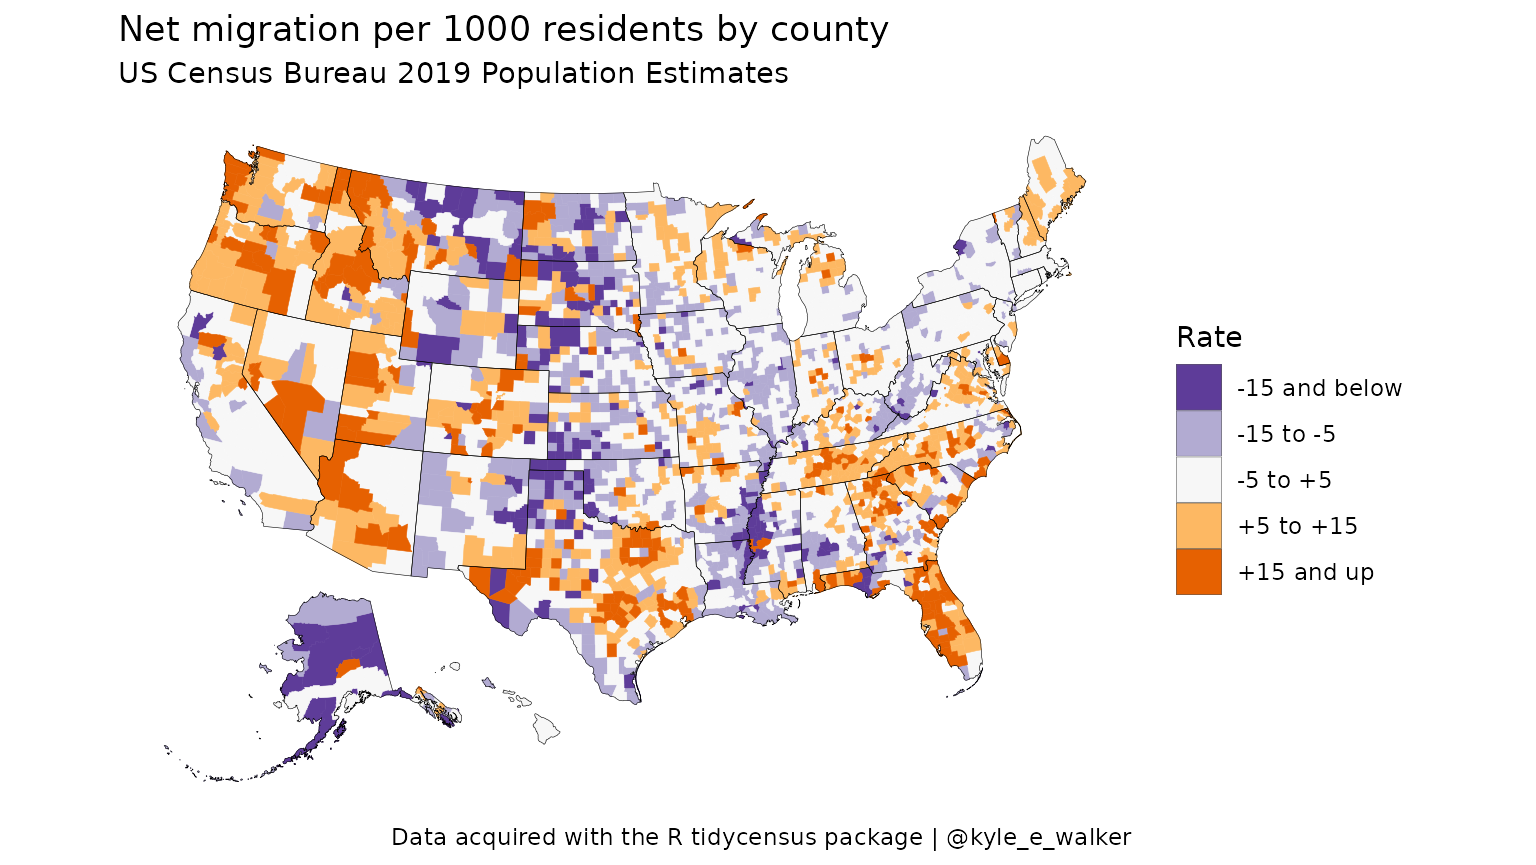
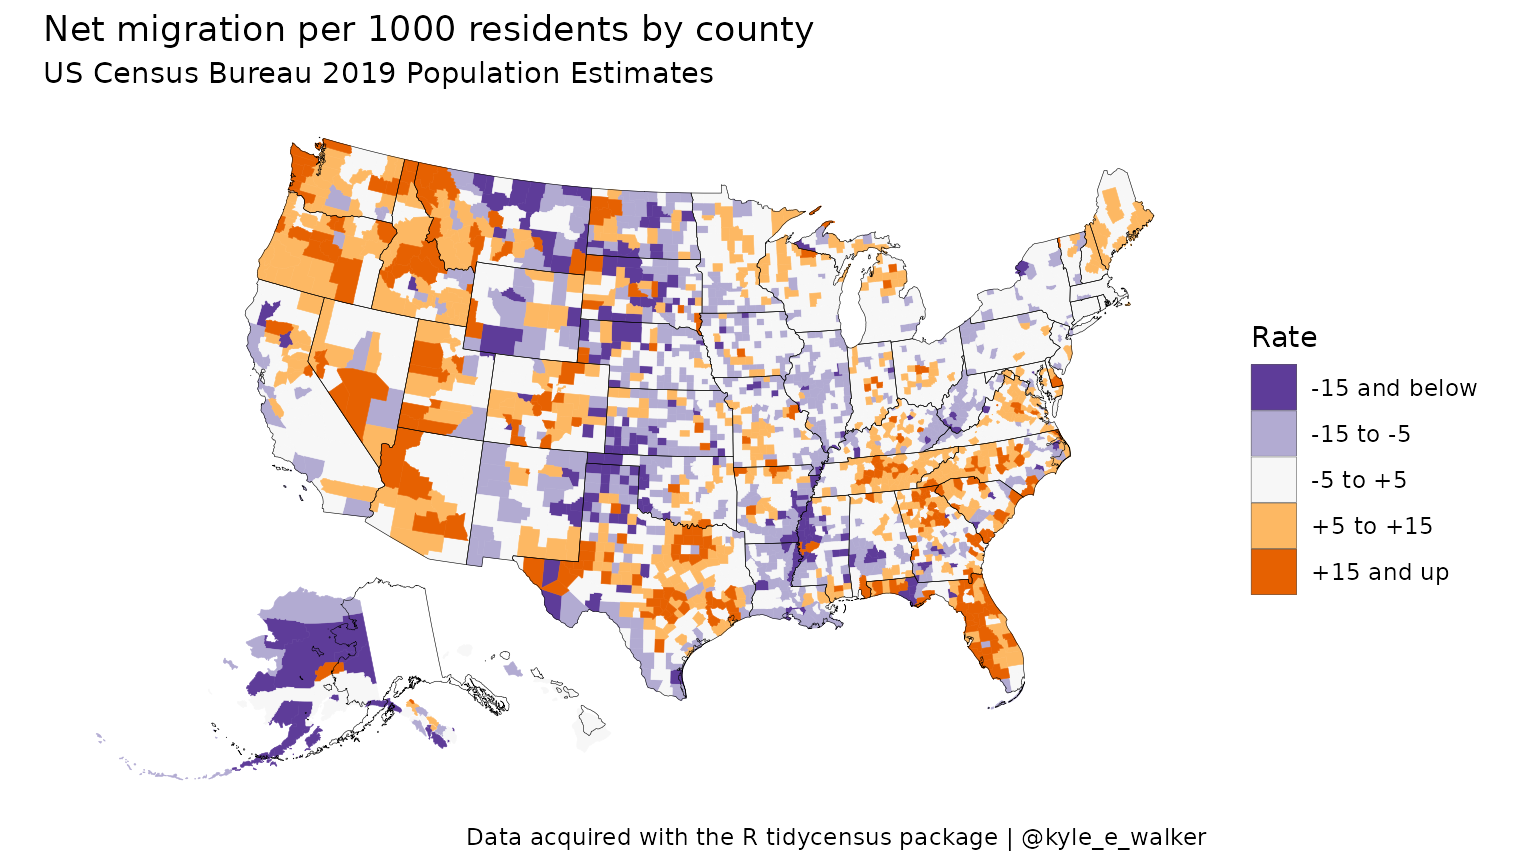
change mapview example to ggplot2

diff --git a/docs/articles/other-datasets.html b/docs/articles/other-datasets.html
@@ -31,7 +31,7 @@
       </button>
       <span class="navbar-brand">
         <a class="navbar-link" href="../index.html">tidycensus</a>
-        <span class="version label label-default" data-toggle="tooltip" data-placement="bottom" title="Released version">0.11.9</span>
+        <span class="version label label-default" data-toggle="tooltip" data-placement="bottom" title="Released version">1.0</span>
       </span>
     </div>
 
@@ -91,7 +91,7 @@
 
       
 
-      </header><script src="other-datasets_files/header-attrs-2.6/header-attrs.js"></script><div class="row">
+      </header><script src="other-datasets_files/header-attrs-2.7/header-attrs.js"></script><div class="row">
   <div class="col-md-9 contents">
     <div class="page-header toc-ignore">
       <h1 data-toc-skip>Other Census Bureau datasets</h1>
@@ -117,6 +117,7 @@
 <div class="sourceCode" id="cb1"><pre class="downlit sourceCode r">
 <code class="sourceCode R"><span class="kw"><a href="https://rdrr.io/r/base/library.html">library</a></span><span class="op">(</span><span class="va"><a href="https://github.com/walkerke/tidycensus">tidycensus</a></span><span class="op">)</span>
 <span class="kw"><a href="https://rdrr.io/r/base/library.html">library</a></span><span class="op">(</span><span class="va"><a href="http://tidyverse.tidyverse.org">tidyverse</a></span><span class="op">)</span>
+<span class="kw"><a href="https://rdrr.io/r/base/library.html">library</a></span><span class="op">(</span><span class="va"><a href="https://github.com/walkerke/tigris">tigris</a></span><span class="op">)</span>
 <span class="fu"><a href="https://rdrr.io/r/base/options.html">options</a></span><span class="op">(</span>tigris_use_cache <span class="op">=</span> <span class="cn">TRUE</span><span class="op">)</span>
 
 <span class="va">us_components</span> <span class="op">&lt;-</span> <span class="fu"><a href="../reference/get_estimates.html">get_estimates</a></span><span class="op">(</span>geography <span class="op">=</span> <span class="st">"state"</span>, product <span class="op">=</span> <span class="st">"components"</span><span class="op">)</span>
@@ -144,32 +145,33 @@
 ##  [7] "RBIRTH"            "RDEATH"            "RDOMESTICMIG"     
 ## [10] "RINTERNATIONALMIG" "RNATURALINC"       "RNETMIG"</code></pre>
 <p>Available geographies include <code>"us"</code>, <code>"state"</code>, <code>"county"</code>, <code>"metropolitan statistical area/micropolitan statistical area"</code>, and <code>"combined statistical area"</code>.</p>
-<p>If desired, users can request a specific component or components by supplying a character vector to the <code>variables</code> parameter, as in other tidycensus functions. <code><a href="../reference/get_estimates.html">get_estimates()</a></code> also supports simple feature geometry integration to facilitate mapping. In the example below, we’ll acquire data on the net migration rate between 2018 and 2019 for all counties in the United States, and request shifted and re-scaled feature geometry for Alaska and Hawaii to facilitate national mapping.</p>
+<p>If desired, users can request a specific component or components by supplying a character vector to the <code>variables</code> parameter, as in other tidycensus functions. <code><a href="../reference/get_estimates.html">get_estimates()</a></code> also supports simple feature geometry integration to facilitate mapping. In the example below, we’ll acquire data on the net migration rate between 2018 and 2019 for all counties in the United States. We’ll also use the <code><a href="https://rdrr.io/pkg/tigris/man/shift_geometry.html">shift_geometry()</a></code> function from the <strong>tigris</strong> package to shift and rescale counties outside the continental US for national mapping.</p>
 <div class="sourceCode" id="cb5"><pre class="downlit sourceCode r">
 <code class="sourceCode R"><span class="va">net_migration</span> <span class="op">&lt;-</span> <span class="fu"><a href="../reference/get_estimates.html">get_estimates</a></span><span class="op">(</span>geography <span class="op">=</span> <span class="st">"county"</span>,
                                variables <span class="op">=</span> <span class="st">"RNETMIG"</span>,
                                geometry <span class="op">=</span> <span class="cn">TRUE</span>,
-                               shift_geo <span class="op">=</span> <span class="cn">TRUE</span><span class="op">)</span>
+                               resolution <span class="op">=</span> <span class="st">"20m"</span><span class="op">)</span> <span class="op">%&gt;%</span>
+  <span class="fu"><a href="https://rdrr.io/pkg/tigris/man/shift_geometry.html">shift_geometry</a></span><span class="op">(</span><span class="op">)</span>
 
 <span class="va">net_migration</span></code></pre></div>
 <pre><code>## Simple feature collection with 3142 features and 4 fields
 ## Geometry type: MULTIPOLYGON
 ## Dimension:     XY
-## Bounding box:  xmin: -2100000 ymin: -2500000 xmax: 2516374 ymax: 732103.3
-## CRS:           +proj=laea +lat_0=45 +lon_0=-100 +x_0=0 +y_0=0 +a=6370997 +b=6370997 +units=m +no_defs
+## Bounding box:  xmin: -3112200 ymin: -1697728 xmax: 2258154 ymax: 1558935
+## Projected CRS: USA_Contiguous_Albers_Equal_Area_Conic
 ## # A tibble: 3,142 x 5
-##    GEOID NAME         variable value                                    geometry
-##    &lt;chr&gt; &lt;chr&gt;        &lt;chr&gt;    &lt;dbl&gt;                          &lt;MULTIPOLYGON [m]&gt;
-##  1 01001 Autauga Cou… RNETMIG   4.56 (((1269841 -1303980, 1248372 -1300830, 124…
-##  2 01009 Blount Coun… RNETMIG   1.12 (((1240383 -1149119, 1222632 -1143475, 120…
-##  3 01017 Chambers Co… RNETMIG  -7.75 (((1382944 -1225846, 1390214 -1235634, 138…
-##  4 01021 Chilton Cou… RNETMIG   4.94 (((1257515 -1230045, 1259055 -1240041, 126…
-##  5 01033 Colbert Cou… RNETMIG   5.97 (((1085910 -1080751, 1085892 -1080071, 108…
-##  6 01045 Dale County… RNETMIG  -1.44 (((1382203 -1366760, 1387076 -1400145, 138…
-##  7 01051 Elmore Coun… RNETMIG   1.13 (((1278144 -1255151, 1279961 -1256403, 130…
-##  8 01065 Hale County… RNETMIG  -7.21 (((1176099 -1258997, 1172005 -1264523, 117…
-##  9 01079 Lawrence Co… RNETMIG   2.00 (((1178216 -1055420, 1179636 -1066254, 118…
-## 10 01083 Limestone C… RNETMIG  26.4  (((1197770 -1018013, 1199180 -1017791, 120…
+##    GEOID NAME          variable  value                                  geometry
+##    &lt;chr&gt; &lt;chr&gt;         &lt;chr&gt;     &lt;dbl&gt;                        &lt;MULTIPOLYGON [m]&gt;
+##  1 29227 Worth County… RNETMIG   -8.91 (((114835.6 345071.6, 123075.8 345080.1,…
+##  2 31061 Franklin Cou… RNETMIG  -14.4  (((-267685.1 323958.5, -229593.3 322742.…
+##  3 36013 Chautauqua C… RNETMIG   -3.54 (((1324221 647717.4, 1334027 655638.7, 1…
+##  4 37181 Vance County… RNETMIG   -3.25 (((1544260 32202.52, 1547238 35809.1, 15…
+##  5 47183 Weakley Coun… RNETMIG   -1.02 (((625934.5 -98887.34, 637691 -97934.11,…
+##  6 44003 Kent County,… RNETMIG    2.29 (((1977965 726702.3, 2004385 734463.7, 2…
+##  7 08101 Pueblo Count… RNETMIG    6.15 (((-783174.5 122269, -773778.8 121411.1,…
+##  8 17175 Stark County… RNETMIG  -10.6  (((500559 424779.4, 510231.4 425409.5, 5…
+##  9 29169 Pulaski Coun… RNETMIG    4.42 (((312851.7 46166.36, 312554.6 59459.92,…
+## 10 19151 Pocahontas C… RNETMIG  -12.2  (((88185.95 606331.9, 126423.3 606681.9,…
 ## # … with 3,132 more rows</code></pre>
 <p>We’ll next use tidyverse tools to generate a <code>groups</code> column that bins the net migration rates into comprehensible categories, and plot the result using <code>geom_sf()</code> and ggplot2.</p>
 <div class="sourceCode" id="cb7"><pre class="downlit sourceCode r">

diff --git a/docs/reference/get_acs.html b/docs/reference/get_acs.html
@@ -72,7 +72,7 @@
       </button>
       <span class="navbar-brand">
         <a class="navbar-link" href="../index.html">tidycensus</a>
-        <span class="version label label-default" data-toggle="tooltip" data-placement="bottom" title="Released version">0.11.9</span>
+        <span class="version label label-default" data-toggle="tooltip" data-placement="bottom" title="Released version">1.0</span>
       </span>
     </div>
 
@@ -241,9 +241,10 @@ shapefile obtained by tigris.  Defaults to FALSE.</p></td>
     </tr>
     <tr>
       <th>shift_geo</th>
-      <td><p>if TRUE, returns geometry with Alaska and Hawaii shifted for
+      <td><p>(deprecated) if TRUE, returns geometry with Alaska and Hawaii shifted for
 thematic mapping of the entire US. Geometry was originally obtained from
-the albersusa R package.</p></td>
+the albersusa R package. As of May 2021, we recommend using <code><a href='https://rdrr.io/pkg/tigris/man/shift_geometry.html'>tigris::shift_geometry()</a></code>
+instead.</p></td>
     </tr>
     <tr>
       <th>summary_var</th>
@@ -287,7 +288,7 @@ what is returned by the API directly. Defaults to FALSE.</p></td>
     <pre class="examples"><div class='input'><span class='kw'>if</span> <span class='op'>(</span><span class='cn'>FALSE</span><span class='op'>)</span> <span class='op'>{</span>
 <span class='kw'><a href='https://rdrr.io/r/base/library.html'>library</a></span><span class='op'>(</span><span class='va'><a href='https://github.com/walkerke/tidycensus'>tidycensus</a></span><span class='op'>)</span>
 <span class='kw'><a href='https://rdrr.io/r/base/library.html'>library</a></span><span class='op'>(</span><span class='va'><a href='http://tidyverse.tidyverse.org'>tidyverse</a></span><span class='op'>)</span>
-<span class='kw'><a href='https://rdrr.io/r/base/library.html'>library</a></span><span class='op'>(</span><span class='va'><a href='https://github.com/sjmgarnier/viridis'>viridis</a></span><span class='op'>)</span>
+<span class='kw'><a href='https://rdrr.io/r/base/library.html'>library</a></span><span class='op'>(</span><span class='va'><a href='https://sjmgarnier.github.io/viridis/'>viridis</a></span><span class='op'>)</span>
 <span class='fu'><a href='census_api_key.html'>census_api_key</a></span><span class='op'>(</span><span class='st'>"YOUR KEY GOES HERE"</span><span class='op'>)</span>
 
 <span class='va'>tarr</span> <span class='op'>&lt;-</span> <span class='fu'>get_acs</span><span class='op'>(</span>geography <span class='op'>=</span> <span class='st'>"tract"</span>, variables <span class='op'>=</span> <span class='st'>"B19013_001"</span>,
@@ -296,8 +297,8 @@ what is returned by the API directly. Defaults to FALSE.</p></td>
 <span class='fu'>ggplot</span><span class='op'>(</span><span class='va'>tarr</span>, <span class='fu'>aes</span><span class='op'>(</span>fill <span class='op'>=</span> <span class='va'>estimate</span>, color <span class='op'>=</span> <span class='va'>estimate</span><span class='op'>)</span><span class='op'>)</span> <span class='op'>+</span>
   <span class='fu'>geom_sf</span><span class='op'>(</span><span class='op'>)</span> <span class='op'>+</span>
   <span class='fu'>coord_sf</span><span class='op'>(</span>crs <span class='op'>=</span> <span class='fl'>26914</span><span class='op'>)</span> <span class='op'>+</span>
-  <span class='fu'><a href='https://rdrr.io/pkg/viridis/man/scale_viridis.html'>scale_fill_viridis</a></span><span class='op'>(</span>option <span class='op'>=</span> <span class='st'>"magma"</span><span class='op'>)</span> <span class='op'>+</span>
-  <span class='fu'><a href='https://rdrr.io/pkg/viridis/man/scale_viridis.html'>scale_color_viridis</a></span><span class='op'>(</span>option <span class='op'>=</span> <span class='st'>"magma"</span><span class='op'>)</span>
+  <span class='fu'><a href='https://sjmgarnier.github.io/viridis/reference/scale_viridis.html'>scale_fill_viridis</a></span><span class='op'>(</span>option <span class='op'>=</span> <span class='st'>"magma"</span><span class='op'>)</span> <span class='op'>+</span>
+  <span class='fu'><a href='https://sjmgarnier.github.io/viridis/reference/scale_viridis.html'>scale_color_viridis</a></span><span class='op'>(</span>option <span class='op'>=</span> <span class='st'>"magma"</span><span class='op'>)</span>
 
 
 <span class='va'>vt</span> <span class='op'>&lt;-</span> <span class='fu'>get_acs</span><span class='op'>(</span>geography <span class='op'>=</span> <span class='st'>"county"</span>, variables <span class='op'>=</span> <span class='st'>"B19013_001"</span>, state <span class='op'>=</span> <span class='st'>"VT"</span><span class='op'>)</span>

diff --git a/docs/reference/get_decennial.html b/docs/reference/get_decennial.html
@@ -72,7 +72,7 @@
       </button>
       <span class="navbar-brand">
         <a class="navbar-link" href="../index.html">tidycensus</a>
-        <span class="version label label-default" data-toggle="tooltip" data-placement="bottom" title="Released version">0.11.9</span>
+        <span class="version label label-default" data-toggle="tooltip" data-placement="bottom" title="Released version">1.0</span>
       </span>
     </div>
 
@@ -231,8 +231,10 @@ shapefile obtained by tigris.  Defaults to FALSE.</p></td>
     </tr>
     <tr>
       <th>shift_geo</th>
-      <td><p>if TRUE, returns geometry with Alaska and Hawaii shifted for thematic mapping of the entire US.
-Geometry was originally obtained from the albersusa R package.</p></td>
+      <td><p>(deprecated) if TRUE, returns geometry with Alaska and Hawaii
+shifted for thematic mapping of the entire US.
+Geometry was originally obtained from the albersusa R package.  As of May 2021,
+we recommend using <code><a href='https://rdrr.io/pkg/tigris/man/shift_geometry.html'>tigris::shift_geometry()</a></code> instead.</p></td>
     </tr>
     <tr>
       <th>summary_var</th>
@@ -267,7 +269,7 @@ a browser and see what is returned by the API directly. Defaults to FALSE.</p></
 <span class='co'># Plot of race/ethnicity by county in Illinois for 2010</span>
 <span class='kw'><a href='https://rdrr.io/r/base/library.html'>library</a></span><span class='op'>(</span><span class='va'><a href='https://github.com/walkerke/tidycensus'>tidycensus</a></span><span class='op'>)</span>
 <span class='kw'><a href='https://rdrr.io/r/base/library.html'>library</a></span><span class='op'>(</span><span class='va'><a href='http://tidyverse.tidyverse.org'>tidyverse</a></span><span class='op'>)</span>
-<span class='kw'><a href='https://rdrr.io/r/base/library.html'>library</a></span><span class='op'>(</span><span class='va'><a href='https://github.com/sjmgarnier/viridis'>viridis</a></span><span class='op'>)</span>
+<span class='kw'><a href='https://rdrr.io/r/base/library.html'>library</a></span><span class='op'>(</span><span class='va'><a href='https://sjmgarnier.github.io/viridis/'>viridis</a></span><span class='op'>)</span>
 <span class='fu'><a href='census_api_key.html'>census_api_key</a></span><span class='op'>(</span><span class='st'>"YOUR KEY GOES HERE"</span><span class='op'>)</span>
 <span class='va'>vars10</span> <span class='op'>&lt;-</span> <span class='fu'><a href='https://rdrr.io/r/base/c.html'>c</a></span><span class='op'>(</span><span class='st'>"P005003"</span>, <span class='st'>"P005004"</span>, <span class='st'>"P005006"</span>, <span class='st'>"P004003"</span><span class='op'>)</span>
 

diff --git a/docs/reference/get_estimates.html b/docs/reference/get_estimates.html
@@ -72,7 +72,7 @@
       </button>
       <span class="navbar-brand">
         <a class="navbar-link" href="../index.html">tidycensus</a>
-        <span class="version label label-default" data-toggle="tooltip" data-placement="bottom" title="Released version">0.11.9</span>
+        <span class="version label label-default" data-toggle="tooltip" data-placement="bottom" title="Released version">1.0</span>
       </span>
     </div>
 
@@ -237,8 +237,9 @@ shapefile obtained by tigris.  Defaults to FALSE.</p></td>
     </tr>
     <tr>
       <th>shift_geo</th>
-      <td><p>if TRUE, returns geometry with Alaska and Hawaii shifted for thematic
-mapping of the entire US.</p></td>
+      <td><p>(deprecated) if TRUE, returns geometry with Alaska and Hawaii shifted for thematic
+mapping of the entire US.  As of May 2021, we recommend using <code><a href='https://rdrr.io/pkg/tigris/man/shift_geometry.html'>tigris::shift_geometry()</a></code>
+instead.</p></td>
     </tr>
     <tr>
       <th>key</th>

diff --git a/docs/articles/margins-of-error.html b/docs/articles/margins-of-error.html
@@ -31,7 +31,7 @@
       </button>
       <span class="navbar-brand">
         <a class="navbar-link" href="../index.html">tidycensus</a>
-        <span class="version label label-default" data-toggle="tooltip" data-placement="bottom" title="Released version">0.11.9</span>
+        <span class="version label label-default" data-toggle="tooltip" data-placement="bottom" title="Released version">1.0</span>
       </span>
     </div>
 
@@ -91,7 +91,7 @@
 
       
 
-      </header><script src="margins-of-error_files/header-attrs-2.6/header-attrs.js"></script><div class="row">
+      </header><script src="margins-of-error_files/header-attrs-2.7/header-attrs.js"></script><div class="row">
   <div class="col-md-9 contents">
     <div class="page-header toc-ignore">
       <h1 data-toc-skip>Margins of error in the ACS</h1>

diff --git a/docs/articles/basic-usage.html b/docs/articles/basic-usage.html
@@ -31,7 +31,7 @@
       </button>
       <span class="navbar-brand">
         <a class="navbar-link" href="../index.html">tidycensus</a>
-        <span class="version label label-default" data-toggle="tooltip" data-placement="bottom" title="Released version">0.11.9</span>
+        <span class="version label label-default" data-toggle="tooltip" data-placement="bottom" title="Released version">1.0</span>
       </span>
     </div>
 
@@ -91,7 +91,7 @@
 
       
 
-      </header><script src="basic-usage_files/header-attrs-2.6/header-attrs.js"></script><div class="row">
+      </header><script src="basic-usage_files/header-attrs-2.7/header-attrs.js"></script><div class="row">
   <div class="col-md-9 contents">
     <div class="page-header toc-ignore">
       <h1 data-toc-skip>Basic usage of tidycensus</h1>

diff --git a/docs/articles/pums-data.html b/docs/articles/pums-data.html
@@ -31,7 +31,7 @@
       </button>
       <span class="navbar-brand">
         <a class="navbar-link" href="../index.html">tidycensus</a>
-        <span class="version label label-default" data-toggle="tooltip" data-placement="bottom" title="Released version">0.11.9</span>
+        <span class="version label label-default" data-toggle="tooltip" data-placement="bottom" title="Released version">1.0</span>
       </span>
     </div>
 
@@ -91,7 +91,7 @@
 
       
 
-      </header><script src="pums-data_files/header-attrs-2.6/header-attrs.js"></script><div class="row">
+      </header><script src="pums-data_files/header-attrs-2.7/header-attrs.js"></script><div class="row">
   <div class="col-md-9 contents">
     <div class="page-header toc-ignore">
       <h1 data-toc-skip>Working with Census microdata</h1>

diff --git a/docs/articles/basic-usage_files/header-attrs-2.7/header-attrs.js b/docs/articles/basic-usage_files/header-attrs-2.7/header-attrs.js
@@ -1,0 +1,12 @@
+// Pandoc 2.9 adds attributes on both header and div. We remove the former (to
+// be compatible with the behavior of Pandoc < 2.8).
+document.addEventListener('DOMContentLoaded', function(e) {
+  var hs = document.querySelectorAll("div.section[class*='level'] > :first-child");
+  var i, h, a;
+  for (i = 0; i < hs.length; i++) {
+    h = hs[i];
+    if (!/^h[1-6]$/i.test(h.tagName)) continue;  // it should be a header h1-h6
+    a = h.attributes;
+    while (a.length > 0) h.removeAttribute(a[0].name);
+  }
+});

diff --git a/docs/articles/margins-of-error_files/header-attrs-2.7/header-attrs.js b/docs/articles/margins-of-error_files/header-attrs-2.7/header-attrs.js
@@ -1,0 +1,12 @@
+// Pandoc 2.9 adds attributes on both header and div. We remove the former (to
+// be compatible with the behavior of Pandoc < 2.8).
+document.addEventListener('DOMContentLoaded', function(e) {
+  var hs = document.querySelectorAll("div.section[class*='level'] > :first-child");
+  var i, h, a;
+  for (i = 0; i < hs.length; i++) {
+    h = hs[i];
+    if (!/^h[1-6]$/i.test(h.tagName)) continue;  // it should be a header h1-h6
+    a = h.attributes;
+    while (a.length > 0) h.removeAttribute(a[0].name);
+  }
+});

diff --git a/docs/articles/other-datasets_files/header-attrs-2.7/header-attrs.js b/docs/articles/other-datasets_files/header-attrs-2.7/header-attrs.js
@@ -1,0 +1,12 @@
+// Pandoc 2.9 adds attributes on both header and div. We remove the former (to
+// be compatible with the behavior of Pandoc < 2.8).
+document.addEventListener('DOMContentLoaded', function(e) {
+  var hs = document.querySelectorAll("div.section[class*='level'] > :first-child");
+  var i, h, a;
+  for (i = 0; i < hs.length; i++) {
+    h = hs[i];
+    if (!/^h[1-6]$/i.test(h.tagName)) continue;  // it should be a header h1-h6
+    a = h.attributes;
+    while (a.length > 0) h.removeAttribute(a[0].name);
+  }
+});

diff --git a/docs/articles/pums-data_files/header-attrs-2.7/header-attrs.js b/docs/articles/pums-data_files/header-attrs-2.7/header-attrs.js
@@ -1,0 +1,12 @@
+// Pandoc 2.9 adds attributes on both header and div. We remove the former (to
+// be compatible with the behavior of Pandoc < 2.8).
+document.addEventListener('DOMContentLoaded', function(e) {
+  var hs = document.querySelectorAll("div.section[class*='level'] > :first-child");
+  var i, h, a;
+  for (i = 0; i < hs.length; i++) {
+    h = hs[i];
+    if (!/^h[1-6]$/i.test(h.tagName)) continue;  // it should be a header h1-h6
+    a = h.attributes;
+    while (a.length > 0) h.removeAttribute(a[0].name);
+  }
+});

diff --git a/docs/reference/county_laea.html b/docs/reference/county_laea.html
@@ -73,7 +73,7 @@ Dataset of US counties with Alaska and Hawaii shifted and re-scaled" />
       </button>
       <span class="navbar-brand">
         <a class="navbar-link" href="../index.html">tidycensus</a>
-        <span class="version label label-default" data-toggle="tooltip" data-placement="bottom" title="Released version">0.11.9</span>
+        <span class="version label label-default" data-toggle="tooltip" data-placement="bottom" title="Released version">1.0</span>
       </span>
     </div>
 
